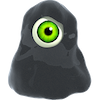
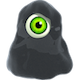
New path picture added

diff --git a/The Mad Fox Version/PlayView.m b/The Mad Fox Version/PlayView.m
@@ -173,9 +173,7 @@
         _noOfFreezesLabel.position = ccp(FreezeFoxCounterX, FreezeFoxCounterY);
         
         //[[CCSpriteFrameCache sharedSpriteFrameCache] addSpriteFramesWithFile:FoxPlist];
-        CCSpriteBatchNode *spriteSheet = [CCSpriteBatchNode batchNodeWithFile:VillainSpriteSheet];
         
-        [self addChild:spriteSheet];
         /*NSMutableArray *tempWalkAnimFrames = [NSMutableArray array];
         for (int i=1; i<=3; i++) {
             [tempWalkAnimFrames addObject:
@@ -194,9 +192,14 @@
             [foxSprite setScale:1];
             //[self resizeSprite:foxSprite toWidth:IS_IPAD?100:60 toHeight:IS_IPAD?100:60];
             [_foxSpritesDictionary setObject:foxSprite forKey:[fox keyIndex]];
-            [spriteSheet addChild:foxSprite];
+            [self addChild:foxSprite z:50];
         }
         [self animateTheChicken];
+        CCNode *node = [CCNode node];
+        [node setContentSize:CGSizeMake(200, 200)];
+        node.position= ccp(200, 40);
+        [self addChild:node];
+        NSLog(@"%f %f",node.boundingBox.size.width,node.boundingBox.size.height);
     }
 	return self;
 }
@@ -219,14 +222,14 @@
     [_delegate quitGame];
 }
 -(void)drawAllLines{
-    [[CCSpriteFrameCache sharedSpriteFrameCache] addSpriteFramesWithFile:@"pathLine.plist"];
+    [[CCSpriteFrameCache sharedSpriteFrameCache] addSpriteFramesWithFile:@"blobLine.plist"];
     for(int i=0;i<[_points count];i++){
         CGPoint startPoint = [[_points objectAtIndex:i] startPoint];
         CGPoint endPoint = [[_points objectAtIndex:i] endPoint];
-        CCSprite *startPointImg = [CCSprite spriteWithImageNamed:StartPointSprite];
-        CCSprite *endPointImg = [CCSprite spriteWithImageNamed:EndPointSprite];
-        [self resizeSprite:startPointImg toWidth:23 toHeight:23];
-        [self resizeSprite:endPointImg toWidth:23 toHeight:23];
+        CCSprite *startPointImg = [CCSprite spriteWithImageNamed:@"ball.png"];
+        CCSprite *endPointImg = [CCSprite spriteWithImageNamed:@"ball.png"];
+        [self resizeSprite:startPointImg toWidth:60 toHeight:60];
+        [self resizeSprite:endPointImg toWidth:60 toHeight:60];
         startPointImg.position = startPoint;
         endPointImg.position = endPoint;
         [self addChild:startPointImg z:40];
@@ -249,7 +252,7 @@
         }
         
         //[self drawLine:startPoint pointB:endPoint];
-        ElasticLine *elasticLine = [[ElasticLine alloc]initWithSegments:7 objectA:nil posA:startPoint objectB:nil posB:endPoint];
+        ElasticLine *elasticLine = [[ElasticLine alloc]initWithSegments:8 objectA:nil posA:startPoint objectB:nil posB:endPoint];
         [_physiscs addChild:elasticLine];
         [_ropeLines addObject:elasticLine];
     }
@@ -524,7 +527,7 @@
         [chickenSprite setScale:1];
 //        /[self resizeSprite:chickenSprite toWidth:IS_IPAD?100:60 toHeight:IS_IPAD?100:60];
         [_chickenSpritesDictionary setObject:chickenSprite forKey:[chicken keyIndex]];
-        [spriteSheet addChild:chickenSprite];
+        [self addChild:chickenSprite z:50];
     }
     [self schedule:@selector(runChickenActions) interval:6.0];
 }
@@ -581,7 +584,7 @@
 -(void)touchEnded:(UITouch *)touch withEvent:(UIEvent *)event {
      CGPoint location = [self convertTouchToNodeSpace:touch];
     
-    
+    NSLog(@"%f %f",location.x,location.y);
     if([[_level currentWeapon] isKindOfClass:[DefaultWeapon class]]){
         
         for(int i = 0; i <[_ropeLines count];i++)
@@ -589,19 +592,15 @@
             CCTexture* tex = [CCTexture textureWithFile:@"line.png"];
             // NSLog(@"Array number: %d",_lineArray.count);
             ElasticLine *spriteT = [_ropeLines objectAtIndex:i];
-            
-            
-            
-            NSArray  *dsdd = [spriteT children];
             NSArray *segmentList = [spriteT segmentList];
             for (int j=0;j<[segmentList count]; j++) {
                 CCSprite *segment = [segmentList objectAtIndex:j];
-                CGRect bbox = CGRectMake(0, 0, segment.boundingBox.size.width, segment.boundingBox.size.height);
+                CGRect bbox = CGRectMake(0,0,segment.boundingBox.size.width,segment.boundingBox.size.height);
                 CGPoint newTouchLocation = [segment convertToNodeSpace:location];
                 if(CGRectContainsPoint(bbox, newTouchLocation))
                 {
                     [_delegate removePath:[_points objectAtIndex:i]];
-                    break;
+                    return;
                 }
             }
             

diff --git a/The Mad Fox Version/ElasticLine.m b/The Mad Fox Version/ElasticLine.m
@@ -18,7 +18,6 @@
 - (instancetype)initWithSegments:(int)segments objectA:(CCNode *)objectA posA:(CGPoint)posA objectB:(CCNode *)objectB posB:(CGPoint)posB
 {
     self = [super init];
-    CGSize contentSize = CGSizeMake(0, 0);
     if (!self) return(nil);
     objectB = nil;
     NSAssert(segments > 1, @"Rope must have at least two segments");
@@ -57,7 +56,7 @@
         CCNode *blobLineSegment = [CCNode node];
         blobLineSegment.position = segmentPos;
         
-        CCSprite *pathSprite = [CCSprite spriteWithImageNamed:[NSString stringWithFormat:@"path%d.png",i+1]];
+        CCSprite *pathSprite = [CCSprite spriteWithImageNamed:[NSString stringWithFormat:@"pathLine%d.png",i+1]];
         pathSprite.rotation = angle;
         [blobLineSegment addChild:pathSprite];
         if (i == 0) {
@@ -67,9 +66,10 @@
         if (i == middleElementIndex) {
             middleBlobLineSegment = blobLineSegment;
         }
-        pathSprite.scaleX = (segmentLength+2)/ pathSprite.contentSize.width;
-        contentSize.width = contentSize.width+pathSprite.contentSize.width;
-        contentSize.height = contentSize.height+pathSprite.contentSize.height;
+        
+        pathSprite.scaleX = (segmentLength)/ pathSprite.contentSize.width;
+         
+        
         blobLineSegment.physicsBody = [CCPhysicsBody bodyWithPillFrom:ccpMult(segmentVector, -0.5)
                                                                to:ccpMult(segmentVector, 0.5)
                                                      cornerRadius:0];
@@ -78,6 +78,7 @@
         blobLineSegment.physicsBody.collisionMask = @[@"sphere",@"villain"];
         blobLineSegment.physicsBody.collisionGroup = self;
         blobLineSegment.physicsBody.affectedByGravity = false;
+        
         [_segmentList addObject:pathSprite];
         [self addChild:blobLineSegment];
         float distance = segmentLength/2;
@@ -140,7 +141,7 @@
         [self addChild:objectB];
     }
     [CCPhysicsJoint connectedPivotJointWithBodyA:previousNode.physicsBody bodyB:objectB.physicsBody anchorA:jointAnchor];
-    [self setContentSize:contentSize];
+    //[self setContentSize:contentSize];
     NSLog(@"%f %f",self.boundingBox.size.width,self.boundingBox.size.height);
     
     // done

diff --git a/The Mad Fox Version/Libraries/cocos2d/ccConfig.h b/The Mad Fox Version/Libraries/cocos2d/ccConfig.h
@@ -224,7 +224,7 @@
  2 -- draw texture box
  */
 #ifndef CC_SPRITE_DEBUG_DRAW
-#define CC_SPRITE_DEBUG_DRAW 0
+#define CC_SPRITE_DEBUG_DRAW 1
 #endif
 
 
